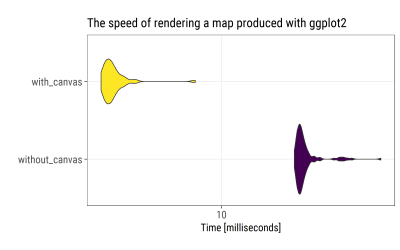
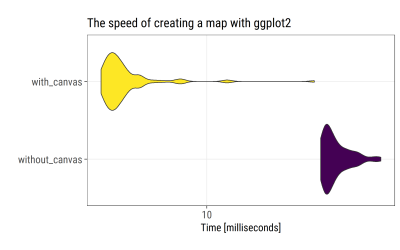
fixed the mistake in the last post

diff --git a/_posts/2017-07-04-ggplot2-microbenchmark.md b/_posts/2017-07-04-ggplot2-microbenchmark.md
@@ -1,11 +1,11 @@
 ---
 layout: article
-title: "Accelerating ggplot2: use a canvas to speed up rendering plots"
+title: "Accelerating ggplot2: use a canvas to speed up plots creation"
 image:
   teaser: 170704-teaser.png
 ---
 
-One of the nice features of the `gg`approach to plotting is that one can save plots as R objects at any step and use later to render and/or modify. I used that feature extensively while creating maps with `ggplot2` (see my previous posts: [one][one], [two][two], [three][three], [four][four], [five][five]). It is just convenient to first create a canvas with all the theme parameters appropriate for a map, and then overlay the map layer. At some point I decided to check if that workflow was computationally efficient or not. To my surprise, the usage of canvas reduces the rendering time of a ggplot quite a lot. To my further surprise, this finding holds for simple plots as well as maps.
+One of the nice features of the `gg`approach to plotting is that one can save plots as R objects at any step and use later to render and/or modify. I used that feature extensively while creating maps with `ggplot2` (see my previous posts: [one][one], [two][two], [three][three], [four][four], [five][five]). It is just convenient to first create a canvas with all the theme parameters appropriate for a map, and then overlay the map layer. At some point I decided to check if that workflow was computationally efficient or not. To my surprise, the usage of canvas reduces the creation time of a ggplot quite a lot. To my further surprise, this finding holds for simple plots as well as maps.
 
 Let's start with a simple check. 
 
@@ -48,18 +48,18 @@ autoplot(test)+
         theme_bw(base_size = 15, base_family = myfont)+
         theme(legend.position = "none",
               axis.text = element_text(size = 15))+
-        labs(title = "The speed of rendering a simple plot produced with ggplot2")
+        labs(title = "The speed of creating a simple ggplot")
 ```
 
 [![fig1][f1]][f1]  
 *Figure 1. Microbenchmark output for a simple plot*
 
-The median time of execution is 2.7 milliseconds for the plot *without* canvas and 1.9 milliseconds for the plot *with* canvas. 
+The median time of execution is 3.24 milliseconds for the plot *without* canvas and 2.29 milliseconds for the plot *with* canvas. 
 
 Next, let's do the same check for a map. For that, I will use the data prepared for [one of my earlier posts][four] and recreate the simple map that shows the division of European Union 27 into three subregions. 
 
 [![fig2][f2]][f2]  
-*Figure 2. The map we use to test the rendering speed*
+*Figure 2. The map we use to test the plot creation speed*
 
 ```
 # load the already prepared data
@@ -142,18 +142,21 @@ autoplot(test_map)+
         theme_bw(base_size = 15, base_family = myfont)+
         theme(legend.position = "none",
               axis.text = element_text(size = 15))+
-        labs(title = "The speed of rendering a map produced with ggplot2")
+        labs(title = "The speed of creating a map with ggplot2")
 ```
 
 [![fig3][f3]][f3]  
 *Figure 3. Microbenchmark output for a map*
 
-The median time of execution is 16 milliseconds for the map *without* canvas and 5.2 milliseconds for the map *with* canvas. 
+The median time of execution is 18.8 milliseconds for the map *without* canvas and 6.3 milliseconds for the map *with* canvas. 
 
 ## Conclusion
 **Use canvas with `ggplot2`**
 
-### For the full script to reproduce the results check out this [gist][gist].
+### For the full script to reproduce the results check out this [gist][gist].  
+
+
+> This post is updated on 2017-07-15. The earlier version had a terminology mistake [pointed out by Hadley Wickham][hadley]. I wrongly called creation time of the plots as rendering time. 
 
 [f1]: https://ikashnitsky.github.io/images/170704/fig-01-test-simple.png
 [f2]: https://ikashnitsky.github.io/images/170704/fig-02-sub.png
@@ -165,3 +168,4 @@ The median time of execution is 16 milliseconds for the map *without* canvas and
 [four]: https://ikashnitsky.github.io/2017/subplots-in-maps/
 [five]: https://ikashnitsky.github.io/2017/colorcoded-map/
 [gist]: https://gist.github.com/ikashnitsky/b9c5d0b838daa2338066dbaa3e035dcc
+[hadley]: https://twitter.com/hadleywickham/status/882217871769837569
